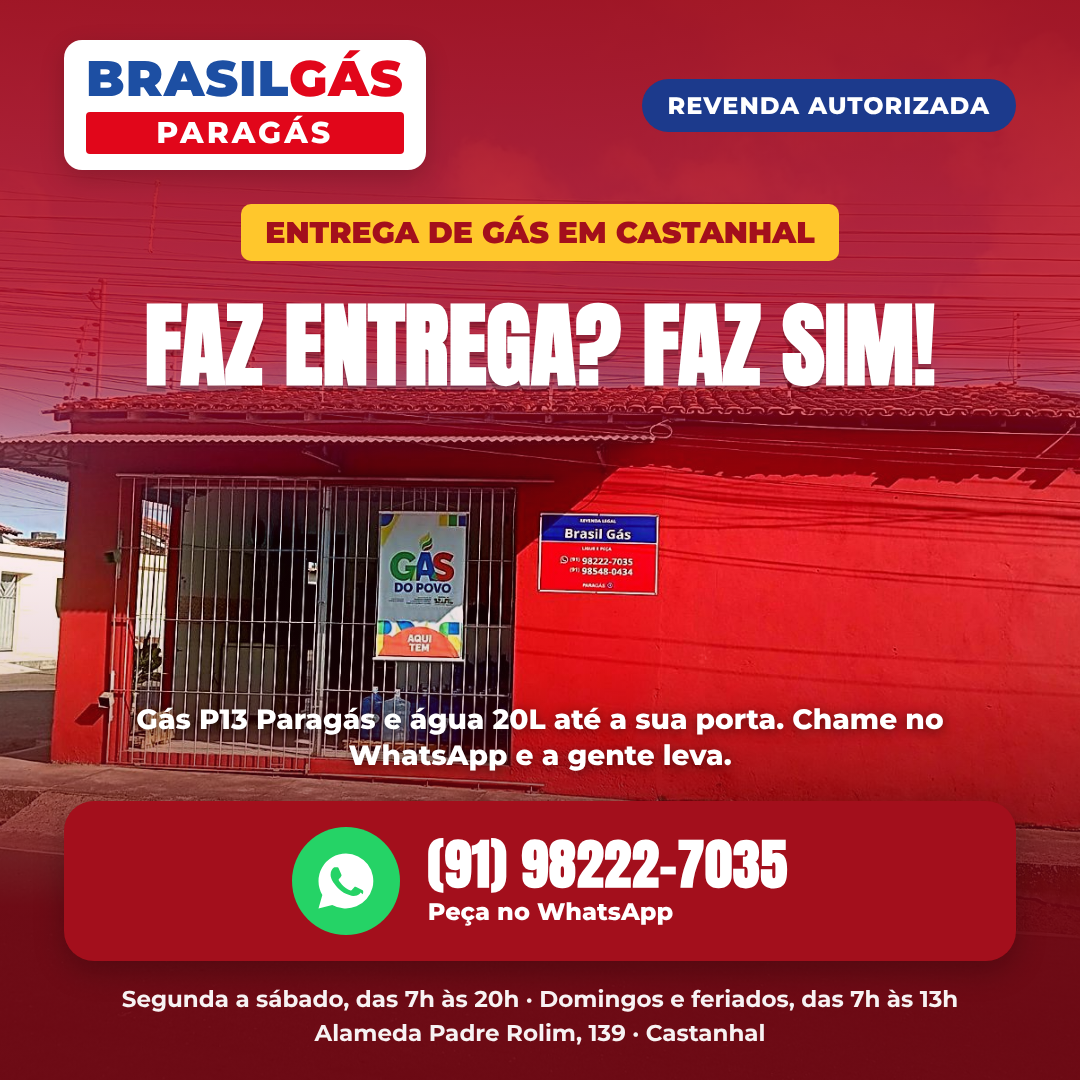
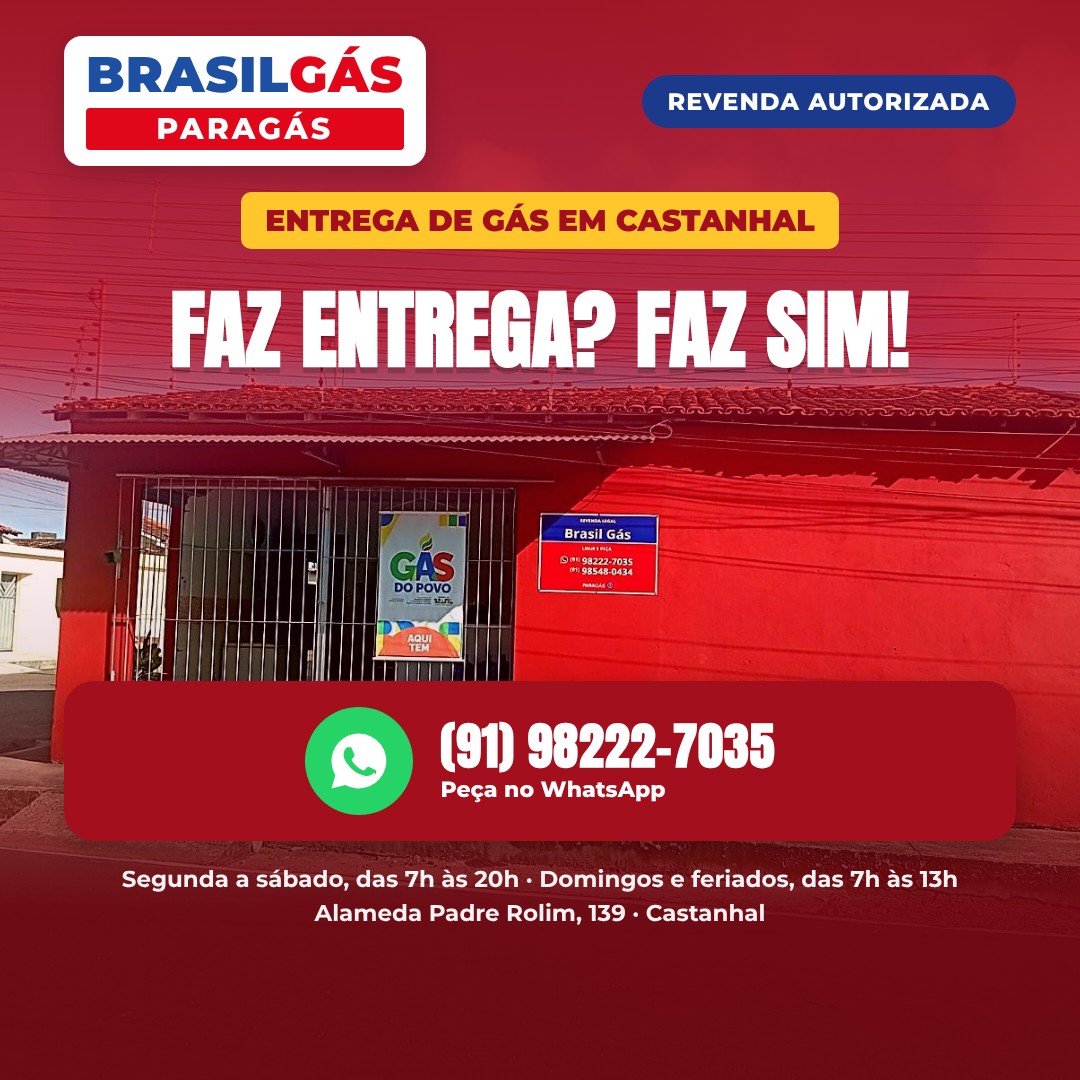
Anúncio WhatsApp quadrado: margem de baixo livre para o botão do anúncio; sem frase sobre a foto
Claude-Session: https://claude.ai/code/session_01HreVdfH4KSyTcqwS5GCGC6

Changed region(s): [[0.0611, 0.6111, 0.9472, 0.9778], [0.0611, 0.0306, 0.8861, 0.3667], [0.6111, 0.0611, 0.9472, 0.1222]]

diff --git a/render.py b/render.py
@@ -6,8 +6,8 @@ BASE = pathlib.Path(__file__).parent
 LAYOUT = {
     # PT/PB: margens de segurança (no story, a interface do Instagram cobre topo e base)
     "feed":  dict(W=1080, H=1350, PT=56, PB=44, GAP1=58, CSIZE=64, CSUB=28, HSIZE=104, HW=900, SSIZE=32, SW=860, IPAD=24, BMAX=700),
-    # quadrado: anúncio do WhatsApp (app Business corta tudo em 1:1)
-    "quadrado": dict(W=1080, H=1080, PT=40, PB=30, GAP1=34, CSIZE=54, CSUB=24, HSIZE=92, HW=960, SSIZE=28, SW=900, IPAD=18, BMAX=560),
+    # quadrado: anúncio do WhatsApp (1:1). PB alto: o botão "WhatsApp" do anúncio cobre o canto de baixo
+    "quadrado": dict(W=1080, H=1080, PT=36, PB=150, GAP1=26, CSIZE=50, CSUB=22, HSIZE=86, HW=960, SSIZE=26, SW=900, IPAD=16, BMAX=420),
     "story": dict(W=1080, H=1920, PT=210, PB=240, GAP1=110, CSIZE=72, CSUB=30, HSIZE=128, HW=920, SSIZE=36, SW=880, IPAD=30, BMAX=860),
 }
 
@@ -30,6 +30,8 @@ def render(spec, out, fmt="feed", overlay=False):
         if not spec.get("ILUSTRACAO"):
             extra += ".ilu{visibility:hidden}"
         extra += ".texto .sub{display:none}.sub2{display:block}"   # frase desce para a base da foto
+        if not spec.get("SUB"):
+            extra += ".sub2{display:none}"   # sem frase: a foto respira (ex.: anúncio quadrado)
     if overlay:   # sem foto: véu vermelho translúcido + textos, fundo transparente
         extra += "html,body{background:transparent!important}body{background-image:%s!important}" % VEU
         if not spec.get("ILUSTRACAO"):
